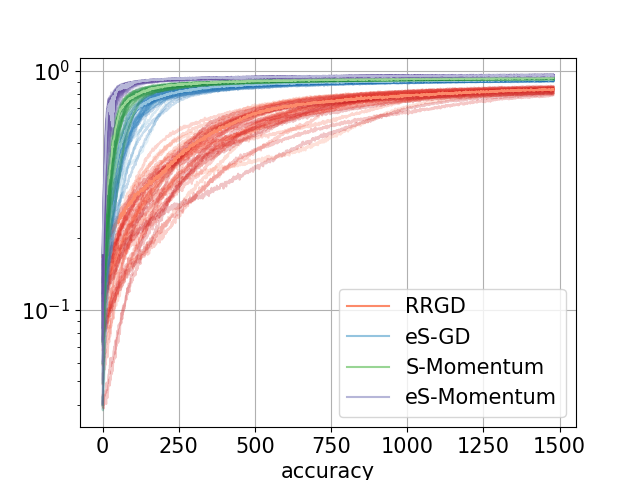
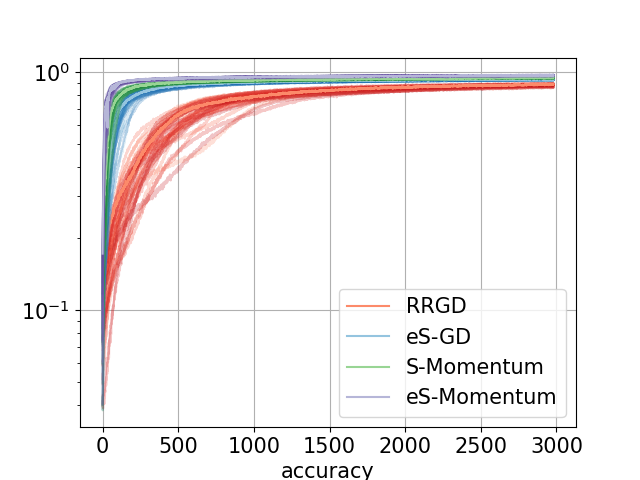
3000 epochs

diff --git a/partI_JMLMC/JMLMC.tex b/partI_JMLMC/JMLMC.tex
@@ -1304,7 +1304,7 @@ The eS-GD and lm-eS-GD display equivalent results while ensuring a gain of almos
  \includegraphics[width=0.5\linewidth]{chapitre5_img/16_16_lr1e-4_accuracy.png}\\
  \includegraphics[width=0.5\linewidth]{chapitre5_img/16_16_lr1e-4_final_loss_hist.png}
  \includegraphics[width=0.5\linewidth]{chapitre5_img/16_16_lr1e-4_final_accuracy_hist.png}\\
-  \caption{Loss curves (log scale on left picture) across epochs and histograms of the final ($n_{\max}=1500$) accuracy (right picture) on MNIST for (exactly) the same initializations for RRGD, eS-GD, S-Momentum and
+  \caption{Loss curves (log scale on left picture) across epochs and histograms of the final ($n_{\max}=3000$) accuracy (right picture) on MNIST for (exactly) the same initializations for RRGD, eS-GD, S-Momentum and
  eS-Momentum for a 2 hidden layers architecture of 16 neurons.}
   \label{mnist_stats_2l}
 \end{figure}
@@ -1315,7 +1315,7 @@ The eS-GD and lm-eS-GD display equivalent results while ensuring a gain of almos
 
 \newG{Overall, these results suggest that eS-based strategies provide substantial empirical advantages over traditional mini-batch methods in real-world scenarios.}
 
-\newG{Figure \ref{mnist_stats_2l} illustrates the training dynamics over $n_{\max} = 1500$ epochs on the MNIST benchmark, showing the evolution of loss (top left), accuracy (top right), and the final distributions of loss (bottom left) and accuracy (bottom right). The comparison includes four mini-batch strategies—RRGD, eS-GD, S-Momentum, and eS-Momentum—each run with $m = 5$ batches, a fixed learning rate $\eta = 10^{-4}$, and initialized with the same weights across 40 different seeds. The results once again highlight the advantages of momentum-based methods: eS-Momentum consistently reaches near-perfect accuracy with the fastest convergence and lowest variance, followed closely by S-Momentum. eS-GD also improves upon RRGD, approaching the performance of S-Momentum. By contrast, RRGD converges more slowly, exhibits higher variability, and results in significantly larger final losses.
+\newG{Figure \ref{mnist_stats_2l} illustrates the training dynamics over $n_{\max} = 3000$ epochs on the MNIST benchmark, showing the evolution of loss (top left), accuracy (top right), and the final distributions of loss (bottom left) and accuracy (bottom right). The comparison includes four mini-batch strategies—RRGD, eS-GD, S-Momentum, and eS-Momentum—each run with $m = 5$ batches, a fixed learning rate $\eta = 10^{-4}$, and initialized with the same weights across 40 different seeds. The results once again highlight the advantages of momentum-based methods: eS-Momentum consistently reaches near-perfect accuracy with the fastest convergence and lowest variance, followed closely by S-Momentum. eS-GD also improves upon RRGD, approaching the performance of S-Momentum. By contrast, RRGD converges more slowly, exhibits higher variability, and results in significantly larger final losses.
 }
 %\begin{figure}[!h]
 %  %\includegraphics[width=0.8\linewidth]{chapitre5_img/GD_comparison_plot.png}
